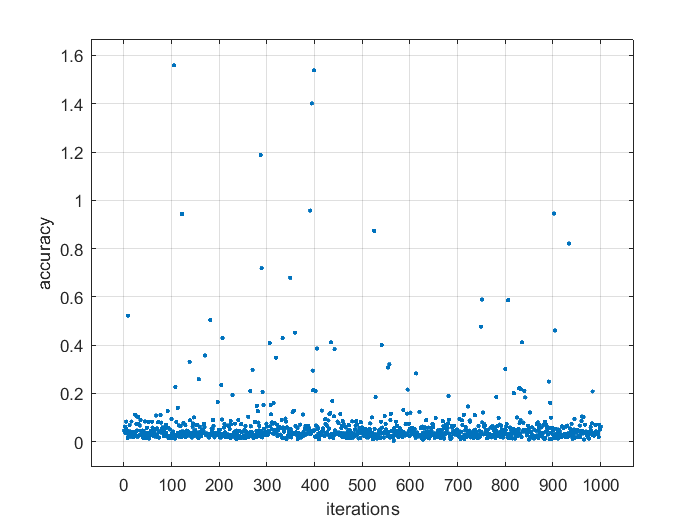
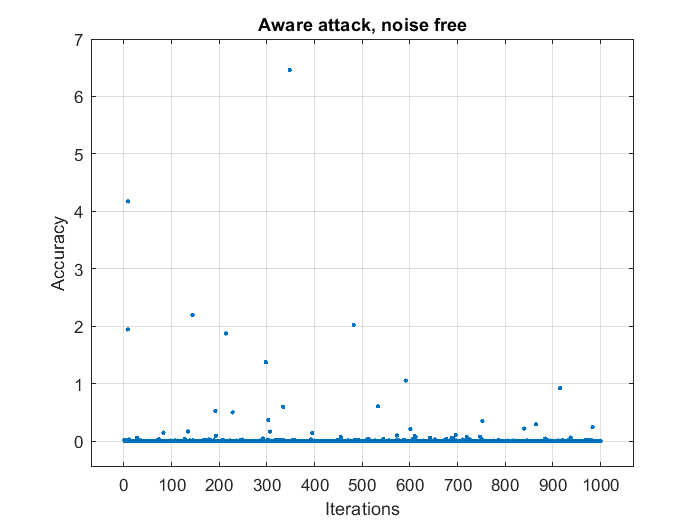
added switch cases in task2 and updated graphs

diff --git a/project1/project1_t2_p1.m b/project1/project1_t2_p1.m
@@ -1,6 +1,8 @@
 clear;
 close all;
-clc;
+% clc;
+
+casetype = 'noisefree'; % accepted values: noise, noisefree;
 
 n = 10; % dimension of x
 q = 20; % dimension of y
@@ -20,19 +22,26 @@ for i=T
     a= zeros(q,1);   %attacks vector
     C= randn(q,n);
     x= randn(n,1);
-    S_a= randi(q,h,1); %support of attacks vector % could contain duplicates
-%     nu = sigma*randn(q,1);
-    nu=0;
+    
+    a_i1= 1 + rand(1);                  % generates a value in [1, 2]
+    a_i2= -a_i1;
+    S_a = randi(q,h,1);                 % calculates the attack vector support a
+    a(S_a(1))= a_i1;
+    a(S_a(2))= a_i2;
+    while duplicates(S_a)               % check for duplicates
+        S_a = randi(q,h,1);   
+    end
+
+    switch casetype
+        case 'noise'
+            nu = sigma*randn(q,1);
+        case 'noisefree'
+            nu = 0;
+    end
+    
     epsilon = 1e-8; %precision
     tau = norm(C,2)^(-2) - epsilon;
     
-    %set non-zero values of a (case with zero_norm(a)=2 )
-    a_i1= 1+ rand(1);
-    a_i2= -a_i1;
-    
-    a(S_a(1))= a_i1;
-    a(S_a(2))= a_i2;
-
     y = C*x + nu + a;   % [C I] [x a]' + nu
     [~, a_indices] = zero_norm(a);
     w_0 = zeros(n+q,1);    %w= [x a]'
@@ -57,11 +66,11 @@ for i=T
         miss(i) = miss(i)+1;
     end
 
-    accuracy(i)= norm(x_found - x,2);
+    accuracy(i)= norm(x_found - x,2)^2;
     % Distance between x_found and x. The lower the better.
 end
 
-%%
+%% Plots
 
 display(mean(miss)*100);
 disp(max(accuracy));
@@ -70,5 +79,13 @@ disp(min(accuracy));
 plot(T,accuracy,".");
 xlabel("Iterations");
 ylabel("Accuracy");
+
+switch casetype
+    case 'noise'
+        title("Unaware attack, with noise")
+    case 'noisefree'
+        title("Unaware attack, noise free")
+end
+
 axis padded
 grid;

diff --git a/project1/project1_t2_p2.m b/project1/project1_t2_p2.m
@@ -1,6 +1,8 @@
 clear;
 close all;
-clc;
+% clc;
+
+casetype = 'noisefree'; % accepted values: noise, noisefree;
 
 n = 10; % dimension of x
 q = 20; % dimension of y
@@ -20,15 +22,26 @@ for i=T
     a= zeros(q,1);   %attacks vector
     C= randn(q,n);
     x= randn(n,1);
-    S_a= randi(q,h,1); %support of attacks vector % could contain duplicates
-    nu = sigma*randn(q,1);
-   % nu=0;
+    
+    switch casetype
+        case 'noise'
+            nu = sigma*randn(q,1);
+        case 'noisefree'
+            nu = 0;
+    end
+
     epsilon = 1e-8; %precision
     tau = norm(C,2)^(-2) - epsilon;
     y = C*x + nu;   % no attack
 
+    a_i1= 1 + rand(1);                  % generates a value in [1, 2]
+    a_i2= -a_i1;
+    S_a = randi(q,h,1);                 % calculates the attack vector support a
     a(S_a(1))= 0.5*y(S_a(1));
     a(S_a(2))= 0.5*y(S_a(2));
+    while duplicates(S_a)               % check for duplicates
+        S_a = randi(q,h,1);   
+    end
 
     y = C*x + nu + a;   % [C I] [x a]' + nu
 
@@ -54,18 +67,26 @@ for i=T
         miss(i) = miss(i)+1;
     end
 
-    accuracy(i)= norm(x_found - x,2);
+    accuracy(i)= norm(x_found - x,2)^2;
     % Distance between x_found and x. The lower the better.
 end 
 
-%%
+%% Plots
 
 display(mean(miss)*100);
 disp(max(accuracy));
 disp(min(accuracy));
 
 plot(T,accuracy,".");
-xlabel("iterations");
-ylabel("accuracy");
+xlabel("Iterations");
+ylabel("Accuracy");
+
+switch casetype
+    case 'noise'
+        title("Aware attack, with noise")
+    case 'noisefree'
+        title("Aware attack, noise free")
+end
+
 axis padded
 grid;
